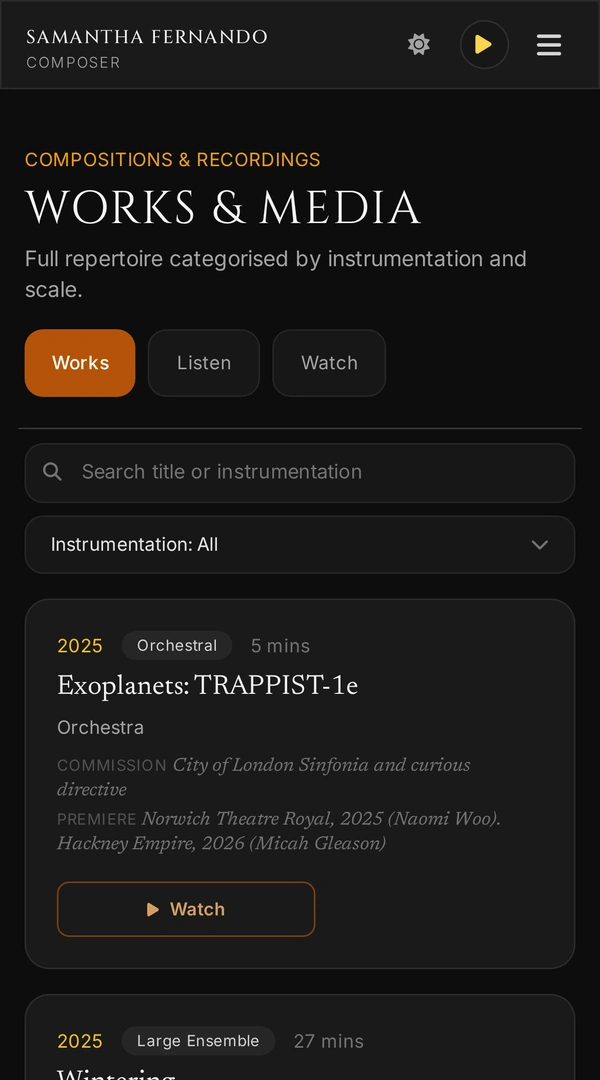
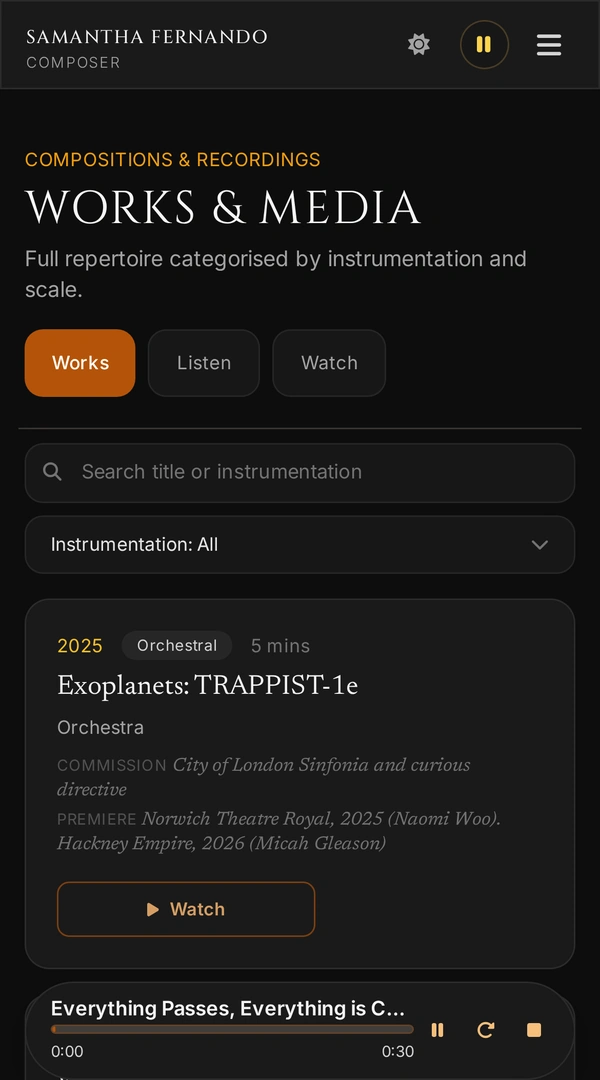
Move Sam playback to Works and showcase Watch third

diff --git a/index.html b/index.html
@@ -114,7 +114,7 @@
             <div class="thumbs" role="group" aria-label="Choose a Samantha Fernando screenshot">
               <button class="thumb sel" type="button" aria-pressed="true" data-label="Homepage" data-src-desk="assets/images/work/3-sam-home-desk.webp" data-alt-desk="Samantha Fernando homepage, desktop screenshot" data-src-mob="assets/images/work/2-sam-home-mob.webp" data-src-desk-dark="assets/images/work/4-sam-home-desk-dark.webp" data-src-mob-dark="assets/images/work/1-sam-home-mob-dark.webp" data-alt-mob="Samantha Fernando homepage, mobile screenshot"><span>Homepage</span></button>
               <button class="thumb" type="button" aria-pressed="false" data-label="Works catalogue" data-src-desk="assets/images/work/sam-works-desk.webp" data-alt-desk="Samantha Fernando works catalogue, desktop screenshot" data-src-mob="assets/images/work/sam-works-mob.webp" data-src-desk-dark="assets/images/work/sam-works-desk-dark.webp" data-src-mob-dark="assets/images/work/sam-works-mob-dark.webp" data-alt-mob="Samantha Fernando works catalogue, mobile screenshot"><span>Works catalogue</span></button>
-              <button class="thumb" type="button" aria-pressed="false" data-label="Biography" data-src-desk="assets/images/work/sam-bio-desk.webp" data-alt-desk="Samantha Fernando biography page, desktop screenshot" data-src-mob="assets/images/work/sam-bio-mob.webp" data-src-desk-dark="assets/images/work/sam-bio-desk-dark.webp" data-src-mob-dark="assets/images/work/sam-bio-mob-dark.webp" data-alt-mob="Samantha Fernando biography page, mobile screenshot"><span>Biography</span></button>
+              <button class="thumb" type="button" aria-pressed="false" data-label="Watch" data-src-desk="assets/images/work/sam-watch-desk.webp" data-alt-desk="Samantha Fernando watch page, desktop screenshot" data-src-mob="assets/images/work/sam-watch-mob.webp" data-src-desk-dark="assets/images/work/sam-watch-desk-dark.webp" data-src-mob-dark="assets/images/work/sam-watch-mob-dark.webp" data-alt-mob="Samantha Fernando watch page, mobile screenshot"><span>Watch</span></button>
             </div>
           </div>
           <div class="case-copy">

diff --git a/assets/js/showcase.js b/assets/js/showcase.js
@@ -174,24 +174,24 @@ document.querySelectorAll('.case').forEach((caseEl) => {
       "960": "sam-works-mob-dark-960w.webp"
     }
   },
-  "sam-bio-mob.webp": {
+  "sam-watch-mob.webp": {
     "width": 1170,
     "height": 2106,
     "variants": {
-      "160": "sam-bio-mob-160w.webp",
-      "320": "sam-bio-mob-320w.webp",
-      "600": "sam-bio-mob-600w.webp",
-      "960": "sam-bio-mob-960w.webp"
+      "160": "sam-watch-mob-160w.webp",
+      "320": "sam-watch-mob-320w.webp",
+      "600": "sam-watch-mob-600w.webp",
+      "960": "sam-watch-mob-960w.webp"
     }
   },
-  "sam-bio-mob-dark.webp": {
+  "sam-watch-mob-dark.webp": {
     "width": 1170,
     "height": 2106,
     "variants": {
-      "160": "sam-bio-mob-dark-160w.webp",
-      "320": "sam-bio-mob-dark-320w.webp",
-      "600": "sam-bio-mob-dark-600w.webp",
-      "960": "sam-bio-mob-dark-960w.webp"
+      "160": "sam-watch-mob-dark-160w.webp",
+      "320": "sam-watch-mob-dark-320w.webp",
+      "600": "sam-watch-mob-dark-600w.webp",
+      "960": "sam-watch-mob-dark-960w.webp"
     }
   }
 };
